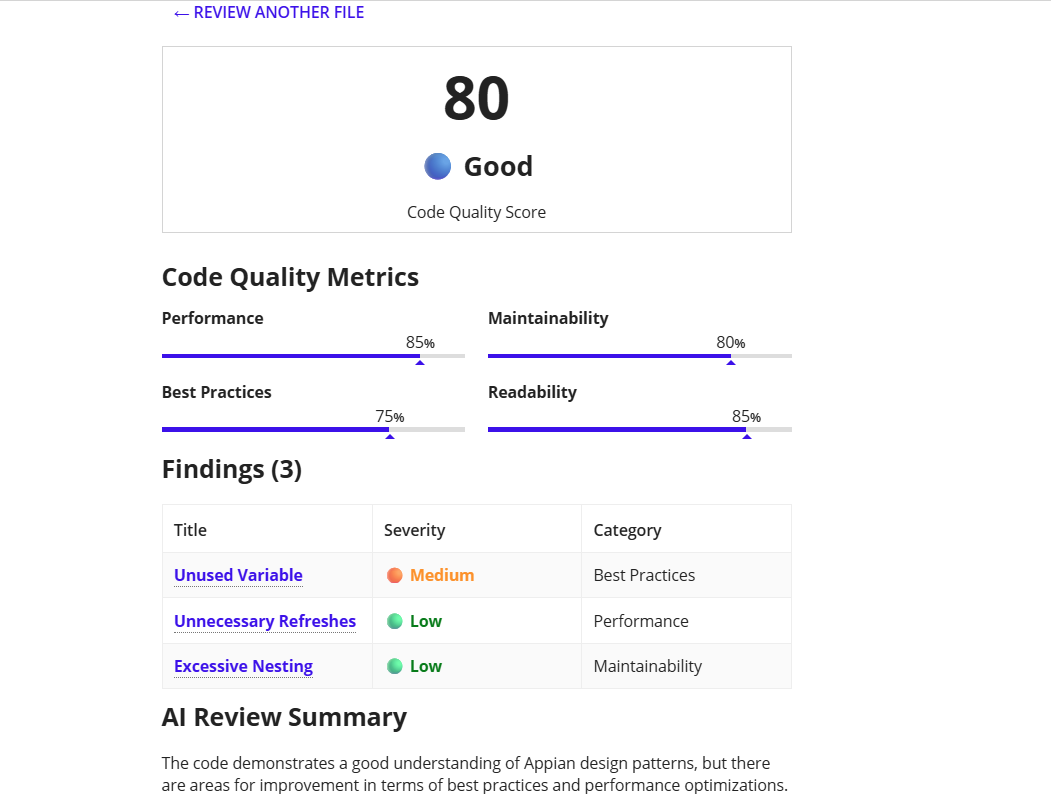
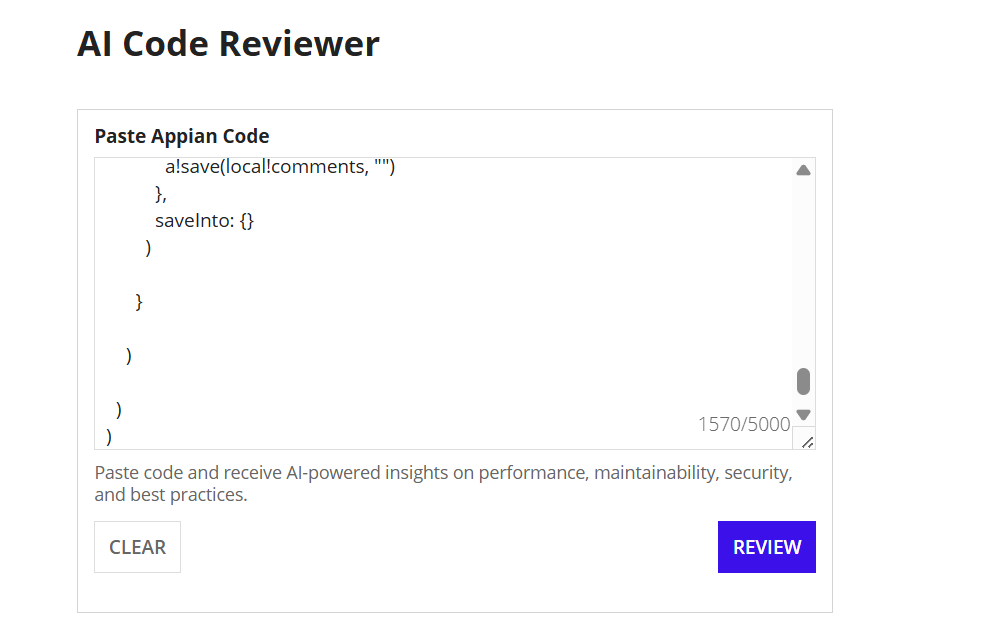
updates

diff --git a/README.md b/README.md
@@ -72,10 +72,6 @@ assets/
 
 # 🖥️ Screenshots
 
-> *(Add screenshots here once available.)*
-
-Example:
-
 * Input Screen
 ![alt text](image.png)
 * AI Findings